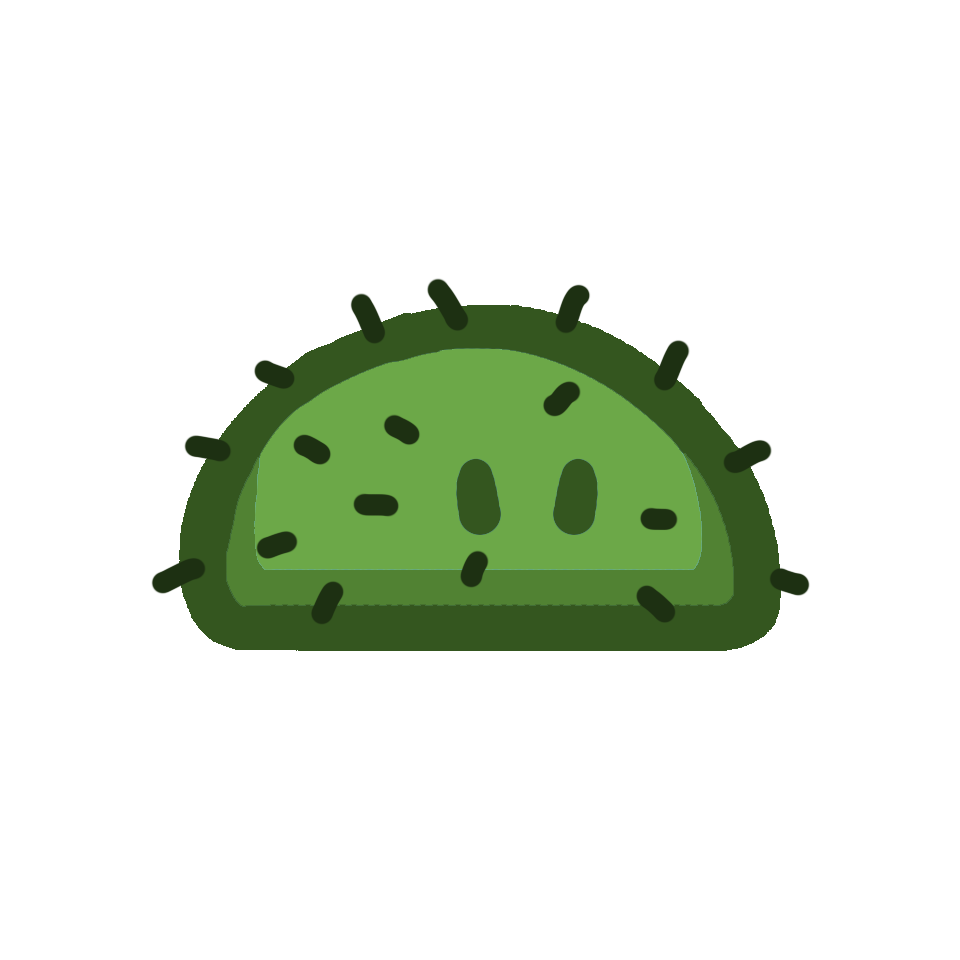
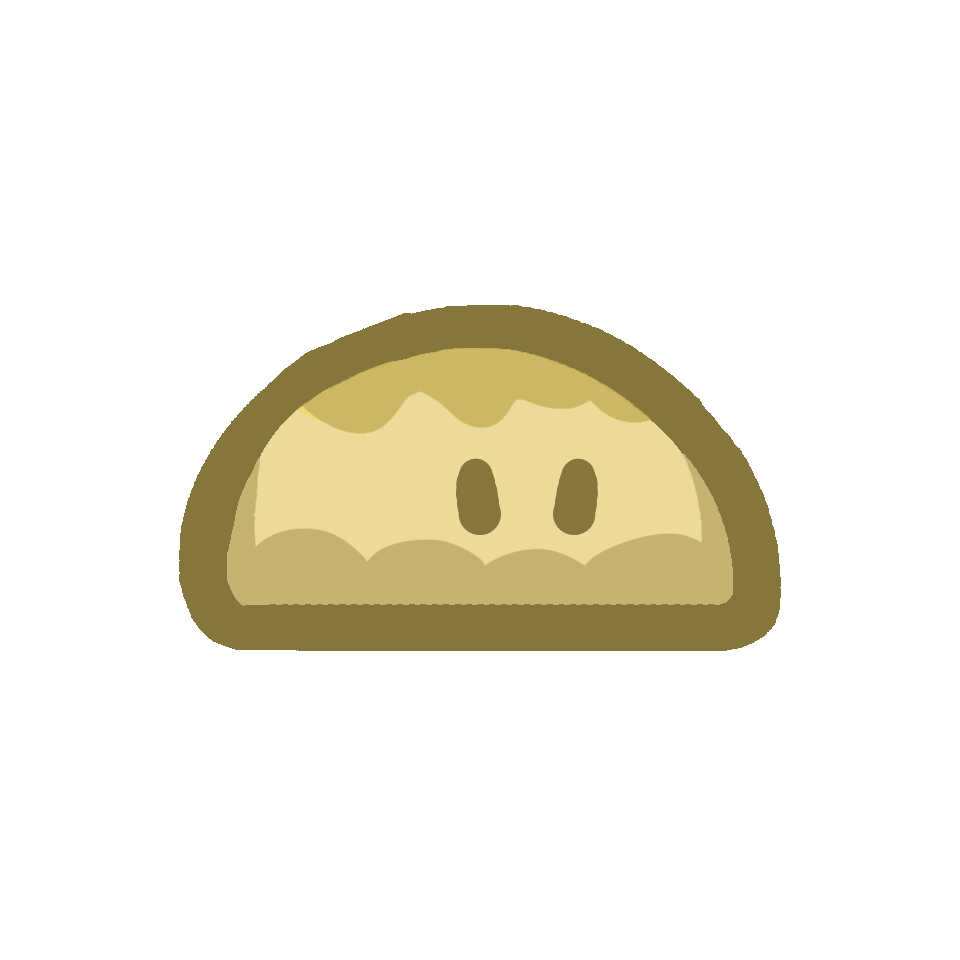
Refactor : 등급과 타입으로 문구 결정
- 슬라임 이름을 SlimeSpecTable로 일원화
- 업그레이드 설명을 Type에 따라 생성
- 중복된 Name과 Description 필드 제거
- 13레벨 슬라임 이미지 변경

Changed region(s): [[0.1562, 0.2812, 0.8438, 0.6875]]

diff --git a/Assets/02.Scripts/UI/UpgradeItem.cs b/Assets/02.Scripts/UI/UpgradeItem.cs
@@ -40,8 +40,8 @@ public class UpgradeItem : MonoBehaviour
 
         if (isUnlocked)
         {
-            _nameTextUI.text = upgrade.SpecData.Name;
-            _descriptionTextUI.text = upgrade.SpecData.Description;
+            _nameTextUI.text = SlimeManager.Instance.GetName(upgrade.SpecData.SlimeGrade);
+            _descriptionTextUI.text = GetDescription(upgrade.SpecData.Type);
             _levelTextUI.text = $"Lv.{upgrade.Level.ToString("N0")}";
             _costTextUI.text = $"Cost:{upgrade.Cost.ToString()}";
             _statTextUI.text = upgrade.IsMaxLevel
@@ -69,6 +69,18 @@ public class UpgradeItem : MonoBehaviour
 
             _upgradeButton.interactable = false;
         }
+    }
+
+    private static string GetDescription(EUpgradeType type)
+    {
+        return type switch
+        {
+            EUpgradeType.ManualPointPlusAdd or
+            EUpgradeType.ManualPointPercentAdd => "클릭 획득량 증가",
+            EUpgradeType.AutoPointPlusAdd or
+            EUpgradeType.AutoPointPercentAdd => "자동 획득량 증가",
+            _ => string.Empty,
+        };
     }
 
     public void LevelUp()

diff --git a/Assets/02.Scripts/Outgame/Feature/Upgrade/2.Domain/Upgrade.cs b/Assets/02.Scripts/Outgame/Feature/Upgrade/2.Domain/Upgrade.cs
@@ -46,8 +46,6 @@ public class Upgrade
         // Fixed 공식은 PointMultiplier를 사용하지 않으므로 검증 생략
         if (specData.PointFormula != EPointFormula.Fixed && specData.PointMultiplier <= 0)
             throw new System.ArgumentException($"포인트 증가량은 0보다 크거나 같아야 합니다. : {specData.PointMultiplier}");
-        if (string.IsNullOrEmpty(specData.Name)) throw new System.ArgumentException($"이름은 비어있을 수 없습니다.");
-        if (string.IsNullOrEmpty(specData.Description)) throw new System.ArgumentException($"설명은 비어있을 수 없습니다.");
     }
 
     public bool CanLevelUp()

diff --git a/Assets/02.Scripts/Outgame/Feature/Slime/3.Manager/SlimeManager.cs b/Assets/02.Scripts/Outgame/Feature/Slime/3.Manager/SlimeManager.cs
@@ -73,6 +73,18 @@ public class SlimeManager : MonoBehaviour
         return _slimes.Find(s => s.SpecData.Grade == grade);
     }
 
+    public string GetName(ESlimeGrade grade)
+    {
+        Slime slime = Get(grade);
+
+        if (slime == null)
+        {
+            throw new InvalidOperationException($"{grade}에 해당하는 슬라임 스펙이 없습니다.");
+        }
+
+        return slime.SpecData.Name;
+    }
+
     public bool CanMerge(Slime slime1, Slime slime2)
     {
         ESlimeGrade maxGrade = _slimes[^1].SpecData.Grade;

diff --git a/Assets/02.Scripts/Outgame/Feature/Upgrade/2.Domain/UpgradeSpecData.cs b/Assets/02.Scripts/Outgame/Feature/Upgrade/2.Domain/UpgradeSpecData.cs
@@ -21,6 +21,4 @@ public class UpgradeSpecData
     public double PointMultiplier;
     public EPointFormula PointFormula;
     public int SystemIconIndex = -1;
-    public string Name;
-    public string Description;
 }
